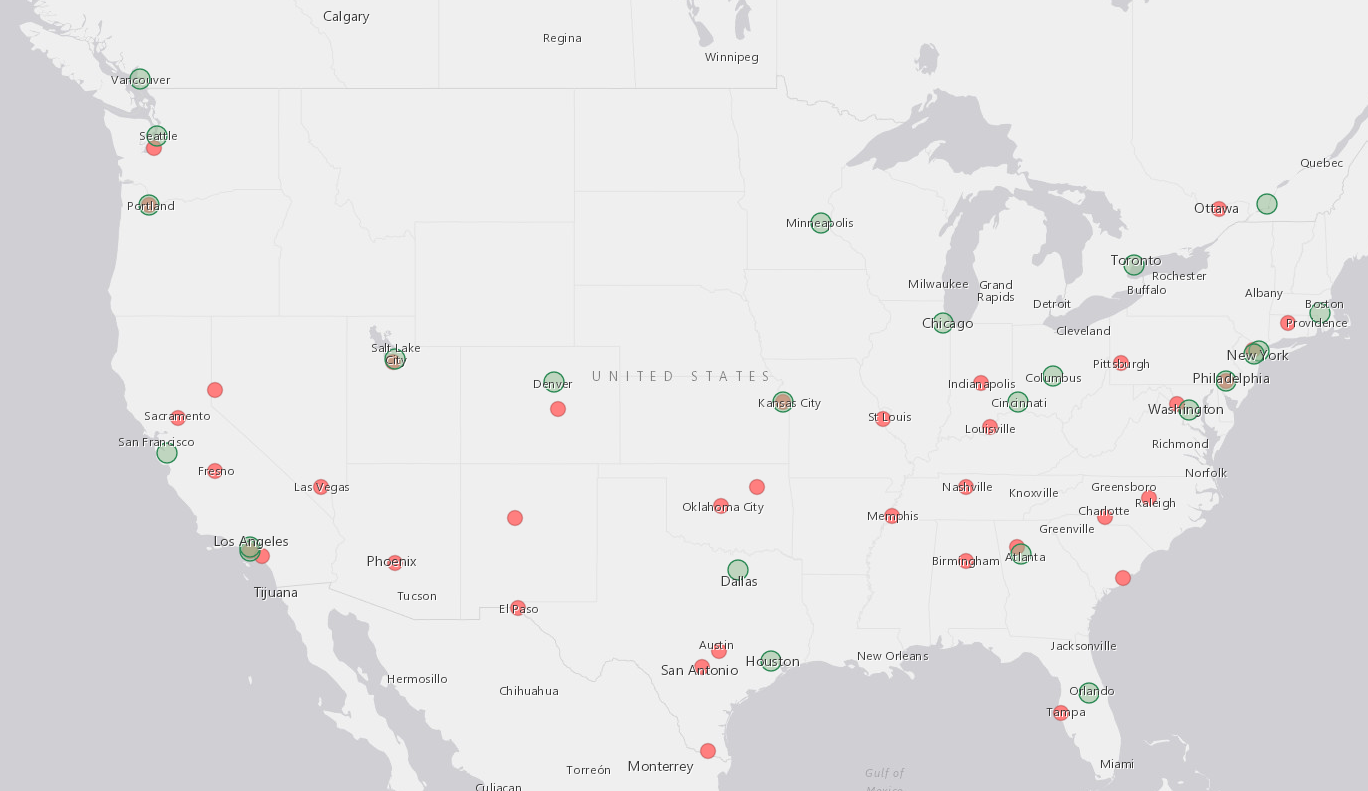
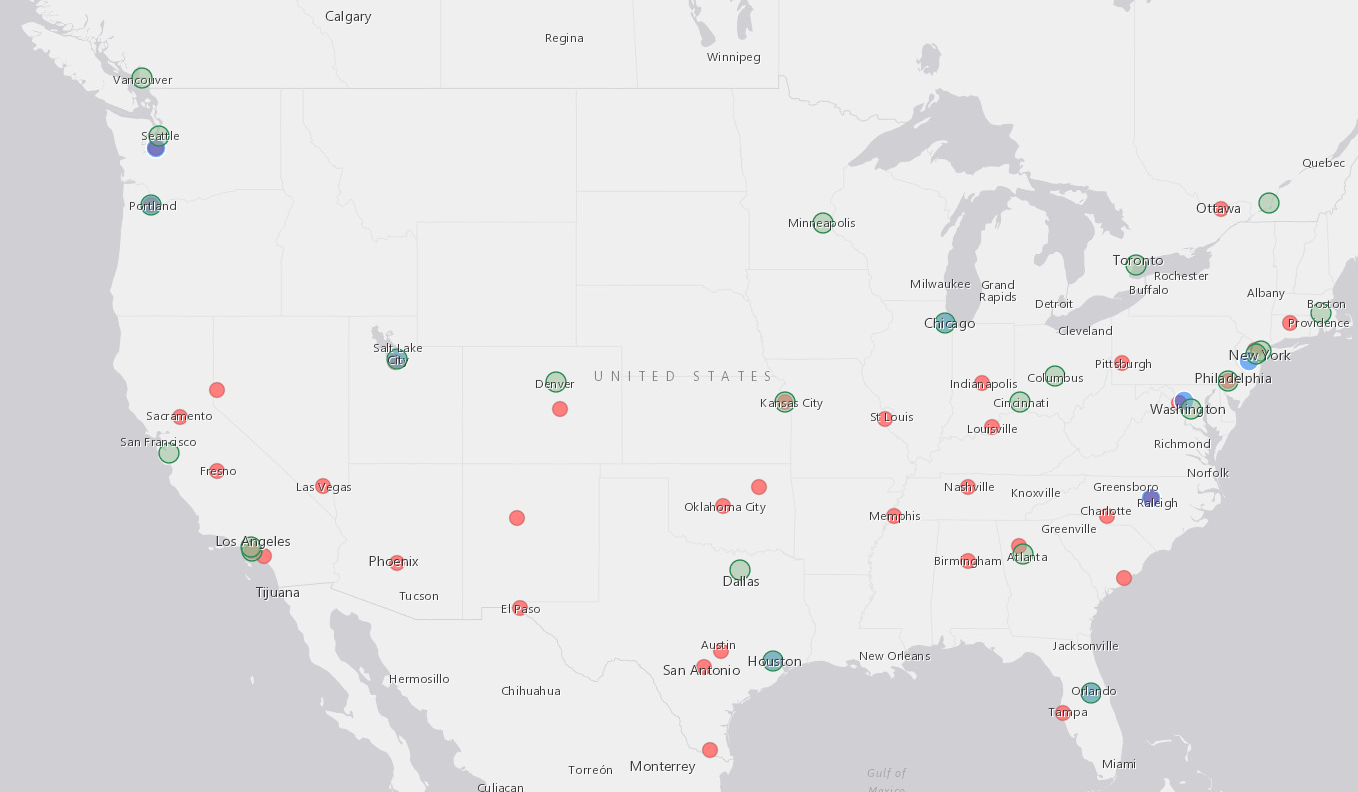
links to multiple maps

diff --git a/README.md b/README.md
@@ -9,9 +9,12 @@ CSV data of the USA soccer teams and locations
 
 ## Map
 
-[View an interactive map of this data](https://arcg.is/18zeHG)
+[View an interactive map of this data](https://arcg.is/10yuXW)
 
-[![screenshot](https://github.com/gavinr/usa-soccer/raw/master/map.png)](https://arcg.is/18zeHG)
+[![screenshot](https://github.com/gavinr/usa-soccer/raw/master/map.png)](https://arcg.is/10yuXW)
+
+- [Map of Men's Teams](https://arcg.is/18zeHG)
+- [Map of Women's Teams](https://arcg.is/DTKbz)
 
 ## Source
 
